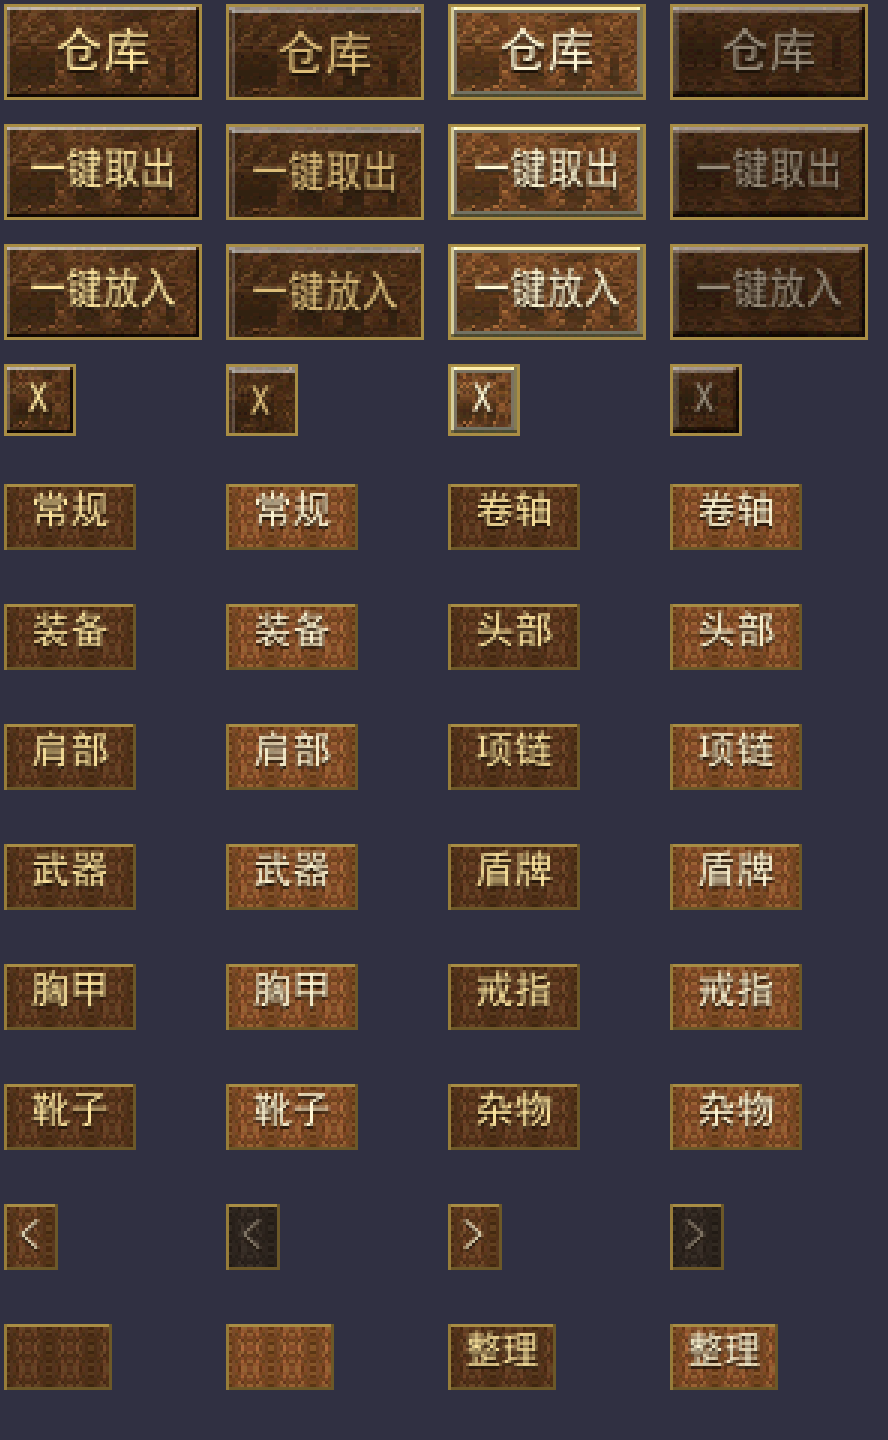
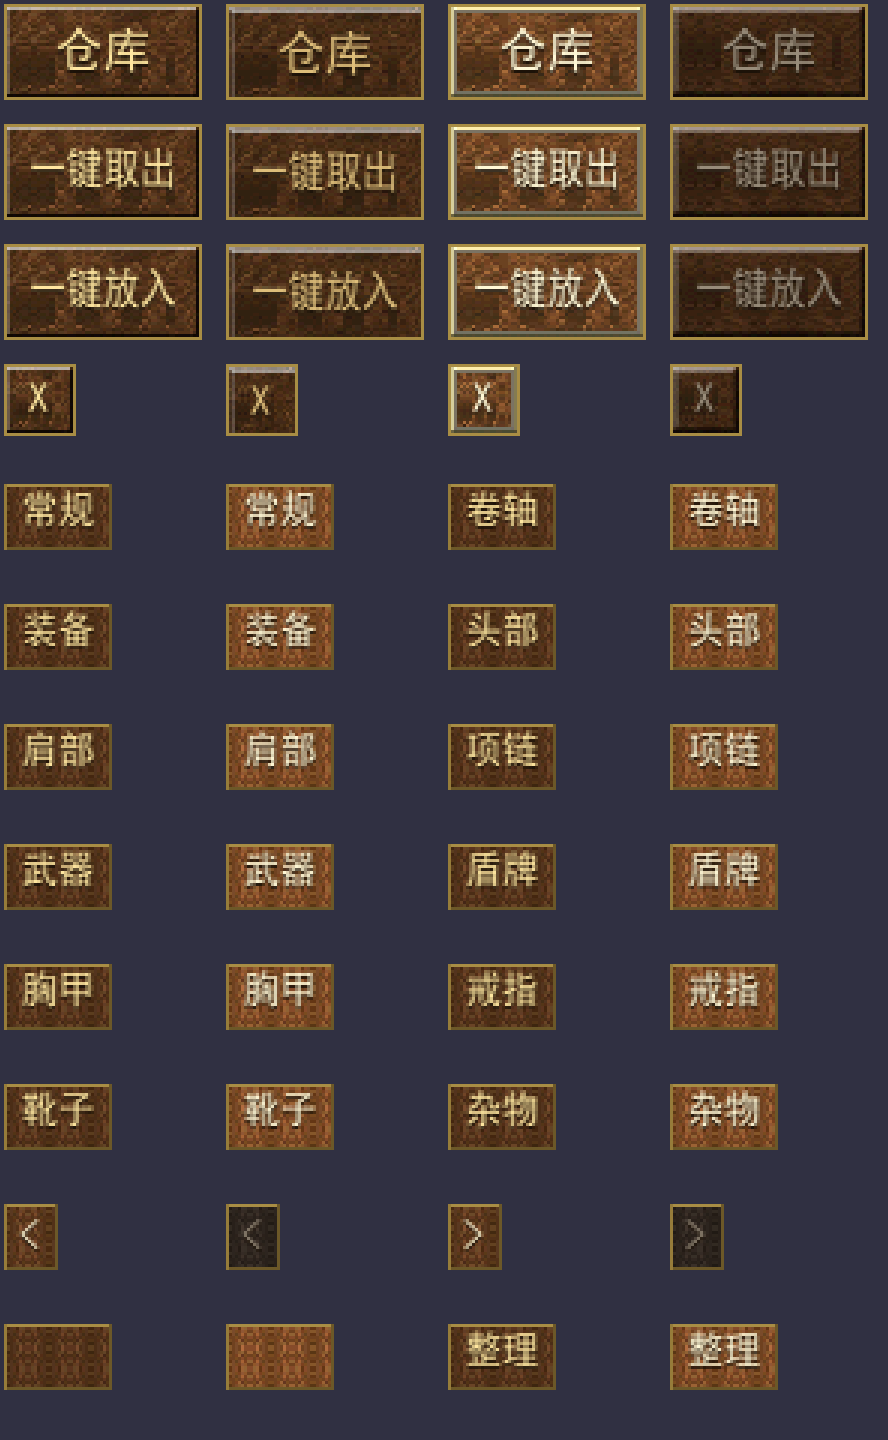
仓库UI第九轮：页签行改版——两端滚动箭头、居中窄页签(36宽)、整行支持滚轮
用户裁定三条：
1. 滚动箭头从旧的 +80/+311 内缩位置移到页签行左右两端（左+8、右-26，与
   分页条同边距），四个可见页签在两箭头之间居中（CenteredTabsX(405,36,4,4)=124）。
2. 页签标题均为两字，44 收窄到 36（与页码/整理按钮同宽、间距 4、步距 40）；
   24 张页签素材由生成器重出，尺寸/解码/两态差异/预览断言随动。
3. 页签行支持滚轮：仓库展开且光标在页签行（含两端箭头）上时滚动页签窗口。
   subtype 承载 WM_MOUSEWHEEL 增量（H3Auto PanelInput 同源实证，原生
   OnMouseWheel(msg.subtype) 同通道）：>0 上滚=窗口左移、<0 下滚=窗口右移。
   只在实际滚动时消费；行外/未展开/已到边界一律透传，不影响原生滚轮路径。

验证（源码冻结 114 文件）：build.bat + H3RND_RUN_AUDIT_TESTS=1 + 游戏真实
patcher_x86.dll，两工程 0 警告 0 错误，13 项审计全 PASS（UI flow 183，新增
居中 X 与滚轮方向断言；PCX 48/282）；素材独立回归 8/8。deploy.bat 退出码 0，
Release 与 Packs SHA256 一致
(7892AD7C93FAAA1BA042A1B5A04D52AA970ED6D049370F7D0DBB4C0764A1F5F0，183296 字节)，
whui 48 张逐张哈希对拍一致。H3RndNew.rc 与 H3RndNew.default.ini 为用户手改
文件，本轮不提交、内容未改（哈希前后一致）。

diff --git a/modules/WarehouseUiStageB.inc.cpp b/modules/WarehouseUiStageB.inc.cpp
@@ -554,6 +554,26 @@ static bool WarehouseUiHandle_(H3BaseDlg* dlg, H3Msg* msg) noexcept
         WarehouseUiUpdateHover_(dlg, msg);
         return false;
     }
+    // 滚轮（round-9 用户裁定）：仓库展开且光标在页签行（含两端箭头）上时，滚动
+    // 页签窗口。只在实际滚动时消费；行外/已到边界一律透传，不影响原生滚轮路径。
+    // H3 消息层把 WM_MOUSEWHEEL 增量放在 subtype（H3Auto PanelInput 同源实证）。
+    if (msg->command == eMsgCommand::MOUSE_WHEEL) {
+        if (!g_wh_ui_live_.expanded) return false;
+        const warehouseui::Rect row(g_wh_ui_live_.layout.warehouse.x + 8,
+            g_wh_ui_live_.layout.warehouse.y + kWhUiTabY_,
+            g_wh_ui_live_.layout.warehouse.width - 16, kWhUiTabHeight_);
+        if (!warehouseui::PointInRect(msg->GetX(), msg->GetY(), row)) return false;
+        const int shift = warehouseui::TabWheelShift(static_cast<int>(msg->subtype));
+        if (shift == 0) return false;
+        const std::size_t before = g_wh_ui_tab_offset_;
+        WarehouseUiTabCommand_(shift < 0 ? 30310 : 30311);
+        if (g_wh_ui_tab_offset_ == before) return false;  // 已到边界：透传
+        WarehouseUiRefresh_(dlg, true);
+        LogInfo("仓库UI: 滚轮滚动页签窗口 delta=%d offset=%u",
+            static_cast<int>(msg->subtype),
+            static_cast<unsigned>(g_wh_ui_tab_offset_));
+        return true;
+    }
     if (msg->command != eMsgCommand::ITEM_COMMAND)
         return false;
     const int id = msg->itemId;
@@ -973,17 +993,21 @@ static void WarehouseUiAttach_(H3BaseDlg* dlg, H3Hero* hero,
         if (kind == 2) g_wh_ui_live_.putAllButton = button;
         if (kind == 3) g_wh_ui_live_.takeAllButton = button;
     }
-    // 中间页签行：左右箭头 + 四个可见标题槽，12项可横向滚动。
+    // 页签行（round-9 用户裁定）：滚动箭头移到这一行的左右两端，四个可见页签
+    // （36 宽、间距 4）在两箭头之间居中；整行支持滚轮滚动窗口。
+    const int tabRowX = layout.warehouse.x
+        + warehouseui::CenteredTabsX(layout.warehouse.width, kWhUiTabWidth_,
+            kWhUiTabSlotCount_, warehouseui::kPagerButtonGap);
     for (int i = 0; i < kWhUiTabSlotCount_; ++i) {
         const WarehouseTabPair_ pair = WarehouseUiCreateTab_(i,
-            layout.warehouse.x + 102 + i * 48,
+            tabRowX + i * (kWhUiTabWidth_ + warehouseui::kPagerButtonGap),
             layout.warehouse.y + kWhUiTabY_, 30300 + i);
         WarehouseUiAddPanelItem_(dlg, pair.label);
         WarehouseUiAddPanelItem_(dlg, pair.hit);
     }
     for (int i = 0; i < 2; ++i) {
         const WarehouseTabPair_ pair = WarehouseUiCreateArrow_(i,
-            layout.warehouse.x + (i == 0 ? 80 : 311),
+            layout.warehouse.x + (i == 0 ? 8 : layout.warehouse.width - 26),
             layout.warehouse.y + kWhUiTabY_, 30310 + i);
         WarehouseUiAddPanelItem_(dlg, pair.label);
         WarehouseUiAddPanelItem_(dlg, pair.hit);

diff --git a/modules/WarehouseUiButtons.inc.cpp b/modules/WarehouseUiButtons.inc.cpp
@@ -8,7 +8,8 @@
 
 namespace {
 static constexpr int kWhUiBtnWidth_ = 66, kWhUiBtnHeight_ = 32;
-static constexpr int kWhUiTabWidth_ = 44, kWhUiTabHeight_ = 22;
+// round-9：页签 44→36（标题均为两字），高不变。
+static constexpr int kWhUiTabWidth_ = 36, kWhUiTabHeight_ = 22;
 static constexpr int kWhUiTabSlotCount_ = 4;
 static constexpr int kWhUiArrowWidth_ = 18, kWhUiArrowHeight_ = 22;
 static constexpr int kWhUiCloseWidth_ = 24, kWhUiCloseHeight_ = 24;
@@ -163,7 +164,8 @@ static void WarehouseUiCacheImages_(H3DlgPcx* source) noexcept {
     for (int t = 0; t < warehouseui::kTabCount; ++t) for (int s = 0; s < 2; ++s) {
         _snprintf_s(file, sizeof(file), _TRUNCATE, "tab%02d%c.pcx", t, s ? 's' : 'n');
         _snprintf_s(key, sizeof(key), _TRUNCATE, "wht%d%d", t, s);
-        g_wh_ui_tab_images_[t][s] = WarehouseUiLoadOne_(file, 44, 22, key);
+        g_wh_ui_tab_images_[t][s] = WarehouseUiLoadOne_(file, kWhUiTabWidth_,
+            kWhUiTabHeight_, key);
         all = all && g_wh_ui_tab_images_[t][s] != nullptr;
     }
     for (int a = 0; a < 2; ++a) for (int s = 0; s < 2; ++s) {
@@ -296,9 +298,10 @@ static void WarehouseUiResetTabs_() noexcept {
 static WarehouseTabPair_ WarehouseUiCreateTab_(int slot, int x, int y, int id) noexcept {
     WarehouseTabPair_ pair;
     if (!WarehouseUiImagesReady_() || slot < 0 || slot >= 4) return pair;
-    pair.label = WarehouseUiCreateVisual_(x, y, 44, 22, id,
+    // round-9（用户裁定）：页签标题都是两个字，44 收窄到 36（与页码/整理按钮同宽）。
+    pair.label = WarehouseUiCreateVisual_(x, y, kWhUiTabWidth_, kWhUiTabHeight_, id,
         g_wh_ui_tab_images_[0][0]);
-    pair.hit = H3DlgTransparentItem::Create(x, y, 44, 22, id);
+    pair.hit = H3DlgTransparentItem::Create(x, y, kWhUiTabWidth_, kWhUiTabHeight_, id);
     g_wh_ui_tabs_[slot] = pair;
     return pair;
 }

diff --git a/scripts/test_whui_assets.py b/scripts/test_whui_assets.py
@@ -15,7 +15,8 @@ TABS = ['常规', '卷轴', '装备', '头部', '肩部', '项链', '武器',
 EXPECTED = {
     **{f'btn_{button}{state}.pcx': ((24, 24) if button == 'close' else (66, 32))
        for button in ('open', 'close', 'take', 'put') for state in range(4)},
-    **{f'tab{tab:02d}{state}.pcx': (44, 22) for tab in range(12) for state in ('n', 's')},
+    # round-9：页签收窄到 36x22（两字标题），与页码/整理按钮同宽。
+    **{f'tab{tab:02d}{state}.pcx': (36, 22) for tab in range(12) for state in ('n', 's')},
     **{f'arrow_{direction}{state}.pcx': (18, 22)
        for direction in ('prev', 'next') for state in range(2)},
     'pager_n.pcx': (36, 22),
@@ -223,8 +224,7 @@ class WarehouseAssetsTest(unittest.TestCase):
         self.assertIn('name.find("tidy_") == 0', text)
         self.assertNotRegex(text, r'\b46\b')
         for dimensions in ('width = 24; height = 24;', 'width = 66; height = 32;',
-                           'width = 44; height = 22;', 'width = 18; height = 22;',
-                           'width = 36; height = 22;'):
+                           'width = 36; height = 22;', 'width = 18; height = 22;'):
             self.assertIn(dimensions, text)
 
 

diff --git a/tests/warehouse_ui_flow_test.cpp b/tests/warehouse_ui_flow_test.cpp
@@ -648,6 +648,21 @@ void CheckRound8SlotBaseAndSorting() {
     const warehouse::Backpack once = storage;
     warehouseui::SortRecordsByIdentity(storage);
     Check(storage == once, "organize is idempotent");
+
+    // round-9：页签行 = 两端箭头 + 居中4个36宽页签（405宽面板 → 起始124）。
+    Check(warehouseui::CenteredTabsX(405, 36, 4, 4) == 124
+              && warehouseui::CenteredTabsX(405, 36, 1, 4) == 184
+              && warehouseui::CenteredTabsX(36, 36, 1, 0) == 0
+              && warehouseui::CenteredTabsX(30, 36, 1, 0) == 0
+              && warehouseui::CenteredTabsX(0, 36, 4, 4) == 0,
+          "centered tab row start X for the 405px panel and degenerate cases");
+    // round-9：滚轮方向（subtype 承载 WM_MOUSEWHEEL 增量，>0 上滚 <0 下滚）。
+    Check(warehouseui::TabWheelShift(120) == -1
+              && warehouseui::TabWheelShift(1) == -1
+              && warehouseui::TabWheelShift(-120) == 1
+              && warehouseui::TabWheelShift(-1) == 1
+              && warehouseui::TabWheelShift(0) == 0,
+          "wheel up shifts the tab window left, wheel down right, zero is a no-op");
 }
 
 void CheckDepositAllBatch() {

diff --git a/modules/WarehouseUiFlow.hpp b/modules/WarehouseUiFlow.hpp
@@ -43,6 +43,25 @@ inline constexpr bool PointInRect(int px, int py, const Rect& rect) noexcept {
     return rect.Contains(px, py);
 }
 
+// round-9：页签行 = 两端箭头 + 居中的 N 个页签。返回页签组在面板内的起始 X。
+// （405 宽面板、4 个 36 宽页签、间距 4 → 起始 124。）
+inline constexpr int CenteredTabsX(int panelWidth, int tabWidth, int slots,
+                                  int gap) noexcept {
+    if (tabWidth <= 0 || slots <= 0 || gap < 0) return 0;
+    const int total = slots * tabWidth + (slots - 1) * gap;
+    if (total >= panelWidth) return 0;
+    return (panelWidth - total) / 2;
+}
+
+// round-9：滚轮 → 页签窗口滚动方向。H3 消息层把 WM_MOUSEWHEEL 的增量放在
+// subtype（H3Auto PanelInput 已实证：>0 上滚、<0 下滚，量级无关）。
+// 上滚=窗口向左（更早的页签），下滚=窗口向右。
+inline constexpr int TabWheelShift(int wheelDelta) noexcept {
+    if (wheelDelta > 0) return -1;
+    if (wheelDelta < 0) return 1;
+    return 0;
+}
+
 inline constexpr bool Intersects(const Rect& left, const Rect& right) noexcept {
     return left.Overlaps(right);
 }

diff --git a/tests/warehouse_ui_pcx_test.cpp b/tests/warehouse_ui_pcx_test.cpp
@@ -303,7 +303,8 @@ void CheckRealAssets_()
         } else if (name.find("btn_") == 0) {
             width = 66; height = 32;
         } else if (name.find("tab") == 0) {
-            width = 44; height = 22;
+            // round-9：页签收窄到 36x22（两字标题），与页码/整理按钮同宽。
+            width = 36; height = 22;
         } else if (name.find("pager_") == 0) {
             width = 36; height = 22;
         } else if (name.find("tidy_") == 0) {

diff --git a/scripts/make_whui_assets.py b/scripts/make_whui_assets.py
@@ -35,7 +35,8 @@ OUT = os.path.join(ROOT, "whui")
 BTN_FRAME_KEY = (0, 255, 255)      # bv_frmL.pcx 透明青色
 BTN_W, BTN_H = 66, 32
 CLOSE_W, CLOSE_H = 24, 24
-TAB_W, TAB_H = 44, 22
+# round-9：页签标题均为两字，44 收窄到 36（与页码/整理按钮同宽）。
+TAB_W, TAB_H = 36, 22
 ARROW_W, ARROW_H = 18, 22
 PAGER_W, PAGER_H = 36, 22
 TIDY_W, TIDY_H = 36, 22

diff --git a/docs/仓库UI实施计划.md b/docs/仓库UI实施计划.md
@@ -305,3 +305,13 @@
 
 ### 8.1 验证边界
[1 lines of base64/hex data omitted]
+
+## 2026-10-14 第九轮：页签行改版（两端箭头 + 居中窄页签 + 滚轮）
+
+用户裁定三条，全部落地：
+1. **滚动箭头移到页签行左右两端**：左箭头 `面板左+8`、右箭头 `面板右-26`（与分页条同边距），不再用旧的 `+80/+311` 内缩位置；四个可见页签在两箭头之间居中（`CenteredTabsX(405,36,4,4)=124`）。
+2. **页签收窄**：标题均为两字，44→**36**（与页码/整理按钮同宽、间距 4、步距 40），24 张页签素材由生成器重出（尺寸/独立解码/两态差异/预览全部随动）。
+3. **页签行支持滚轮**：仓库展开且光标位于页签行（`面板左+8` 到 `面板右-8`、Y=`TabY..TabY+22`）时，滚轮滚动页签窗口。方向按 H3 消息层约定：`subtype` 承载 WM_MOUSEWHEEL 增量，**>0 上滚=窗口左移、<0 下滚=窗口右移**（`TabWheelShift`；H3Auto PanelInput 同源实证，原生 `OnMouseWheel(msg.subtype)` 同通道）。**只在实际滚动时消费**；行外、未展开、已到边界一律透传，不影响原生滚轮路径与其他区域。
+
+### 第九轮验证边界
[1 lines of base64/hex data omitted]
